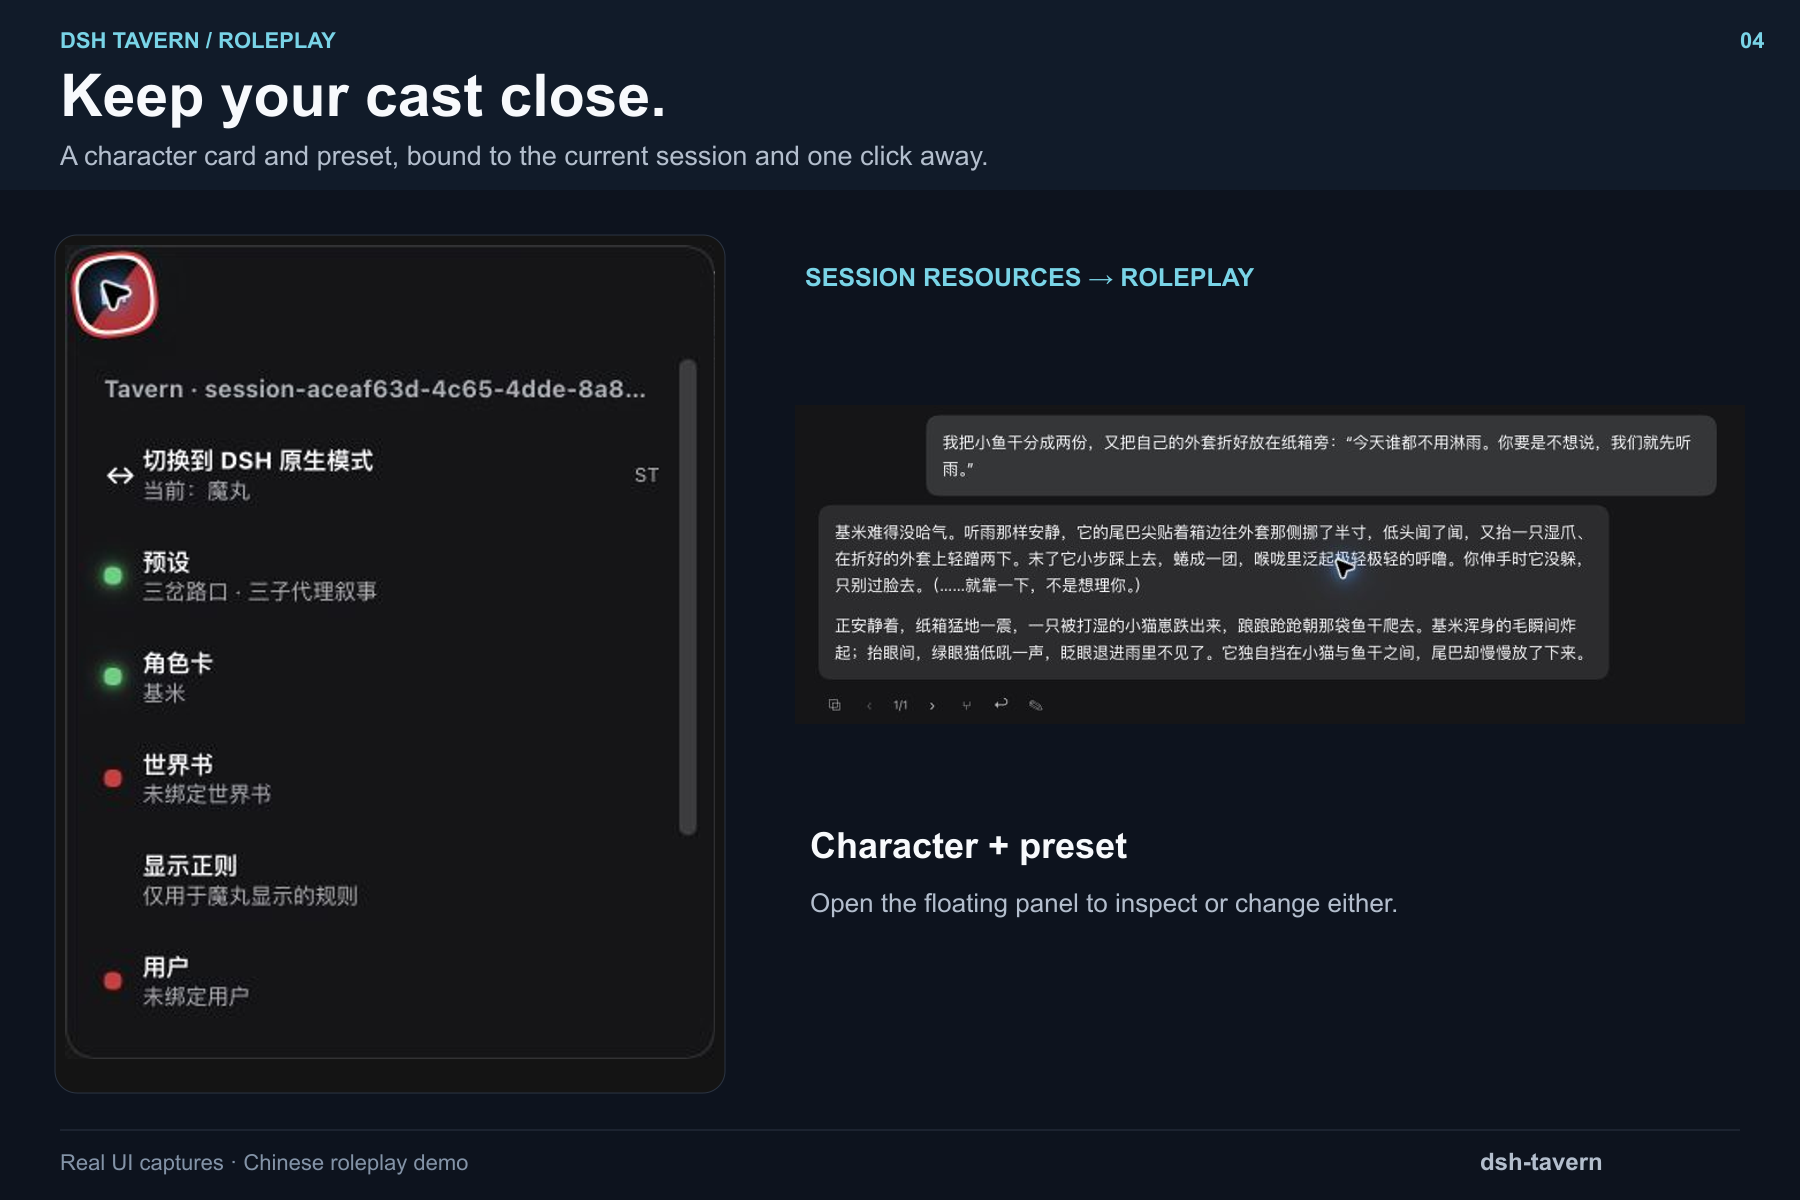
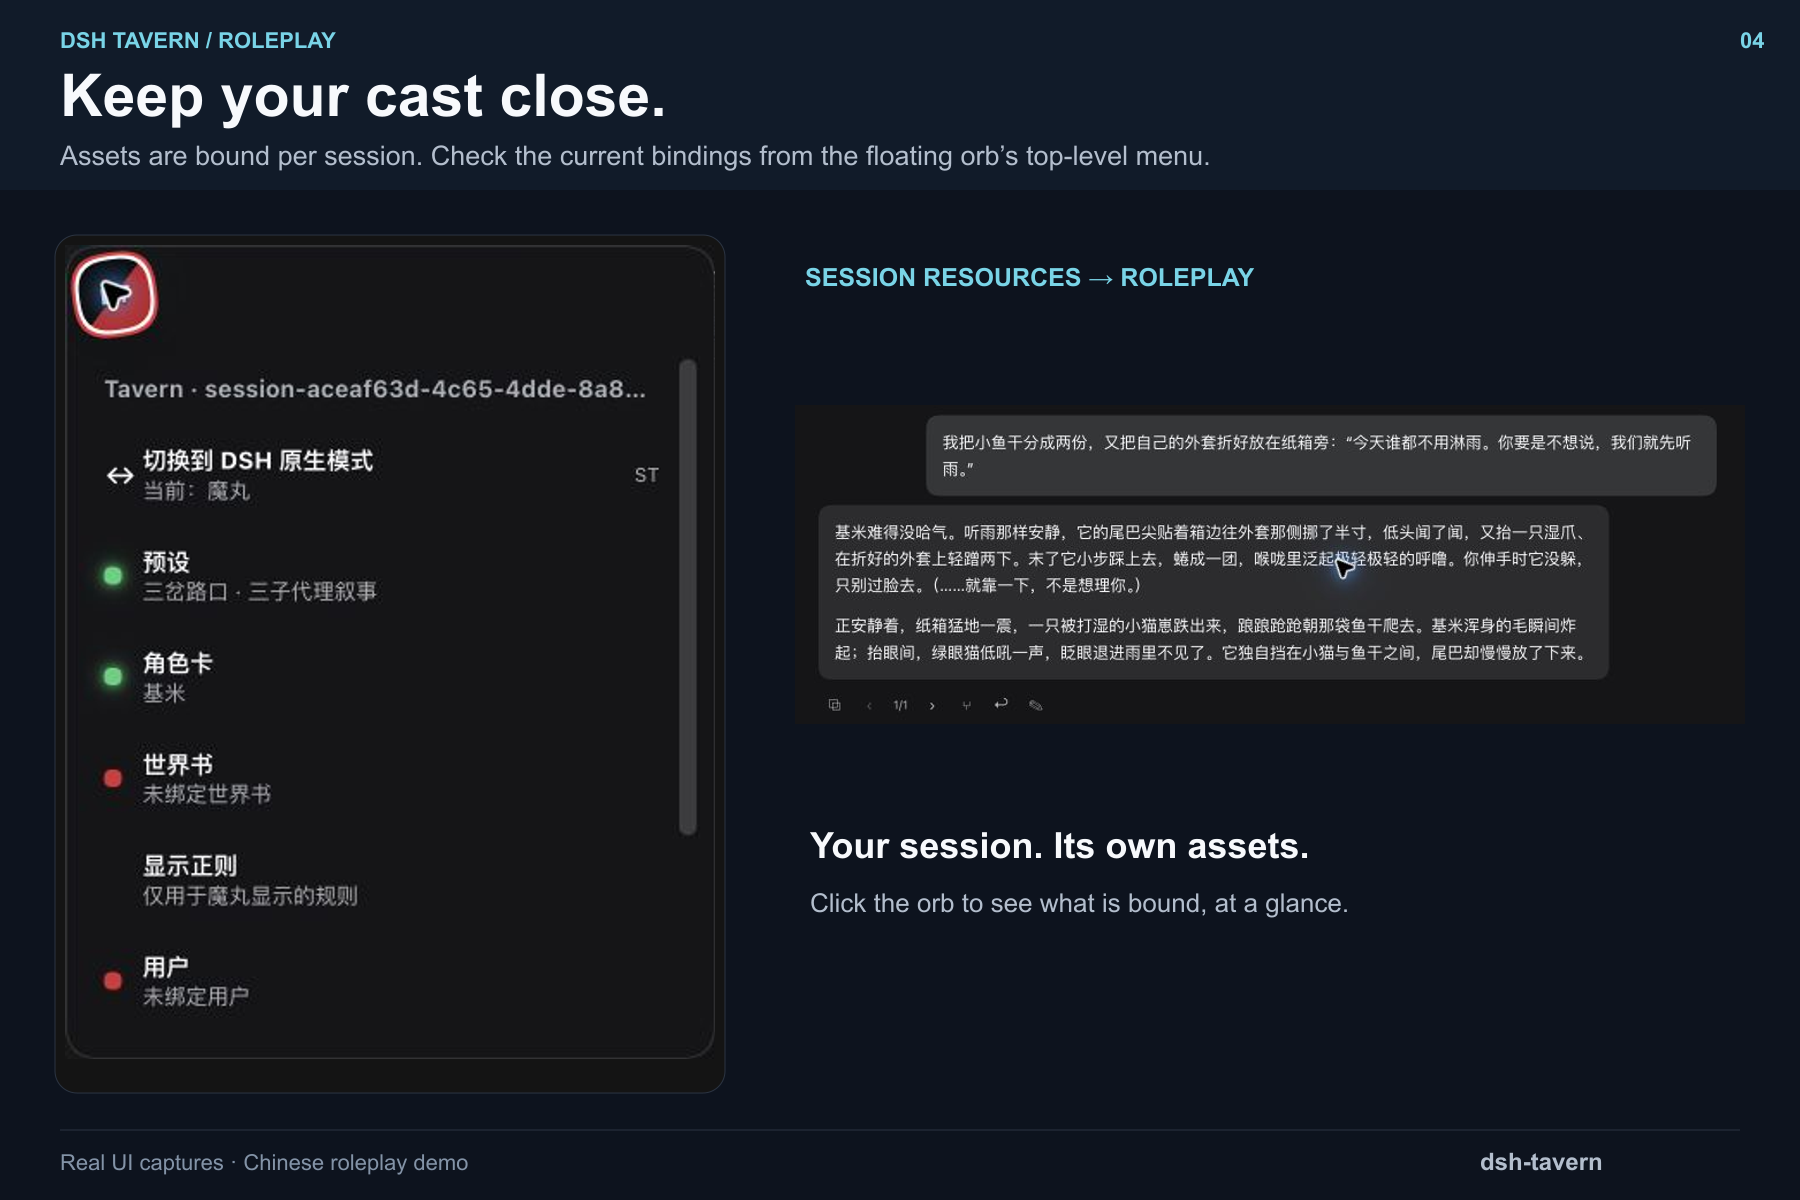
docs: recapture dark swipe paths and clarify session assets

Changed region(s): [[0.4356, 0.6783, 0.7778, 0.7708], [0.0311, 0.1233, 0.6533, 0.1542]]

diff --git a/docs/assets/market/README.md b/docs/assets/market/README.md
@@ -9,16 +9,16 @@ The compositions use cropped, scaled screenshots with captions outside the UI. N
 | Image | Shows |
 | --- | --- |
 | [Roleplay](01-roleplay.png) | Character dialogue with a legend for copy, swipe, generate, branch, rewind, and display editing |
-| [Swipe paths](07-swipe-paths.png) | An earlier reply and its corresponding saved continuation change together |
+| [Swipe paths](07-swipe-paths.png) | Two continuous dark-mode conversations: switching the first reply restores its distinct second user message and reply |
 | [Agent capabilities](02-three-routes.png) | Native DSH capabilities, with three completed subagents as one example |
-| [Session resources](03-session-resources.png) | Character and preset bound to the current session |
-| [Preset](04-preset.png) | A reusable narrative coordination prompt |
+| [Session resources](03-session-resources.png) | Session-scoped asset bindings visible from the floating orb's top-level menu |
+| [ST-compatible assets](04-preset.png) | Presets, character cards, world books, display regex, and asset creation/import/editing/export |
 | [Display regex](05-display-regex.png) | Rules and the resulting RP display side by side |
 | [Native history](06-native-history.png) | Native tool records and the same turn's RP dialogue side by side |
 
 The manifest uses seven repository-relative paths, within the [Market screenshot requirements](https://github.com/awesome-dsh-plugin/awesome-dsh-plugin/blob/main/contributing.md#screenshots--截图optional-recommended--可选推荐). Push the assets and manifest together when publishing; a local commit alone does not make them available to Market.
 
-The swipe comparison uses assistant-reply excerpts from 基米's first playthrough: candidates `1/3` and `3/3`, plus their corresponding follow-ups. These are separate real screenshots of saved paths, not synthetic before/after text. The new follow-up on the third path completed after network connectivity recovered; switching back restored the first path's original follow-up. Existing-candidate switching does not regenerate later messages. The right arrow generates only when already at the final candidate; actions are disabled while the Agent is running. Button glyphs in the legend match the UI, and display editing does not change the model's original context.
+The swipe comparison uses fresh dark-mode captures from 基米's fourth playthrough: candidates `1/2` and `2/2`. Each side is one continuous crop, retaining the same opening user message, its candidate reply, a different second user message, and that path's reply and controls. It does not reuse the earlier light-mode material or splice individual messages. The first path offers to sit outside and block the wind; the second brings a new box and a towel. Switching back restored the first path's original user input and reply without regeneration. Capture settings were 125% RP body text and 150% message controls for readability. Existing-candidate switching does not regenerate later messages. The right arrow generates only when already at the final candidate; actions are disabled while the Agent is running. Button glyphs in the legend match the UI, and display editing does not change the model's original context.
 
 ## Gallery
 
@@ -26,7 +26,7 @@ The swipe comparison uses assistant-reply excerpts from 基米's first playthrou
 ![Swipe-linked continuations](07-swipe-paths.png)
 ![Native Agent capabilities](02-three-routes.png)
 ![Session resources](03-session-resources.png)
-![Reusable preset](04-preset.png)
+![ST-compatible assets](04-preset.png)
 ![Display-only regex](05-display-regex.png)
 ![Native and RP views](06-native-history.png)
 
